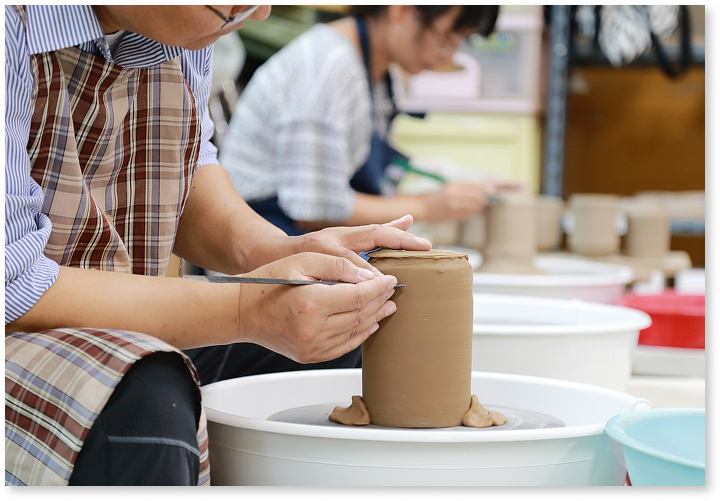
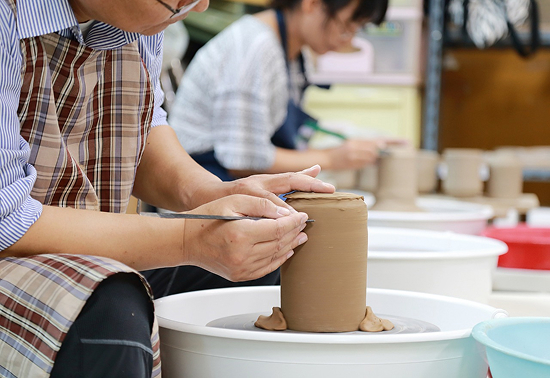
create new page about.html

diff --git a/about.html b/about.html
@@ -1,0 +1,214 @@
+<!doctype html>
+<html lang="en">
+  <head>
+    <meta charset="UTF-8" />
+    <meta name="viewport" content="width=device-width, initial-scale=1.0" />
+    <title>Document</title>
+  </head>
+  <body>    
+<section class="about">
+        <div class="container">
+            <header class="header">
+                <div class="header__menu">
+                    <div class="header__menu-close">
+                        <span></span>
+                        <span></span>
+                    </div>
+                    <nav class="header__nav-menu">
+                        <ul>
+                            <li><a href="#" class="header__link__menu">catalog</a></li>
+                            <li><a href="#" class="header__link__menu">blog</a></li>
+                            <li><a href="#" class="header__link__menu">about</a></li>
+                        </ul>
+                    </nav>
+                </div>
+                <div class="header__top">
+                    <div class="burger">
+                        <span></span>
+                        <span></span>
+                        <span></span>
+                    </div>
+                    <div class="header__menu-logo">
+                        <a href="#" class="header__logo">
+                            <img src="/src/logo/logo.png" alt="logo" />
+                        </a>
+                        <div class="header__icons">
+                            <a href="#" aria-label="search icon">
+                                <span class="icon-search"></span>
+                            </a>
+                            <a href="#" aria-label="Shopping icon">
+                                <span class="icon-shopping-bag"></span>
+                            </a>
+                        </div>
+                    </div>
+                    <nav class="header__nav">
+                        <ul>
+                            <li><a href="#" class="header__link">catalog</a></li>
+                            <li><a href="#" class="header__link">blog</a></li>
+                            <li><a href="#" class="header__link">about</a></li>
+                        </ul>
+                    </nav>
+                </header>
+            </div>
+        </section>
+        <section  class="about__began">
+          <div class="container">
+            <h2 class="title-h2 title-h2-about">where it all began</h2>
+            <div class="wrapper__about__began">
+              <div class="img__about__began">
+                <img src="/src/img/about/crafts.jpg" alt="crafts">
+              </div>
+              <div class="text__about__began">
+                <p>Our small pottery workshop began as a simple passion project, rooted in 
+                  a love for handmade artistry and traditional craftsmanship. What started 
+                  with a single wheel and a few lumps of clay has grown into a cozy creative 
+                  space where ideas take shape and stories are told through every piece. 
+                  Inspired by timeless techniques and the beauty of natural materials, 
+                  we’ve built a place where both beginners and experienced artists can come 
+                  together, share their skills, and celebrate the art of pottery. Each creation 
+                  reflects our journey—shaped by hand, fired with care, and made to be cherished.
+                </p>
+                <p>Over the years, our workshop has become more than just a place to create—it’s 
+                  a community. Friends, families, and curious visitors gather here to learn, 
+                  connect, and experience the joy of working with clay. From intimate 
+                  masterclasses to collaborative projects, we believe in the power of handmade 
+                  art to bring people together and spark creativity in unexpected ways.</p>
+                <p>Every piece that leaves our studio carries a bit of our story, blending 
+                  tradition with personal expression. Whether it’s a simple cup or an intricate 
+                  vase, our ceramics are crafted to be both beautiful and functional, adding warmth
+                  and authenticity to any space.</p>
+              </div>
+            </div>
+          </div>
+        </section>
+
+
+
+ <section class="touch">
+      <div class="container">
+        <h2 class="title-h2">get in touch</h2>
+        <div class="pure-g touch__wrapper">
+          <div class="pure-u-1 pure-u-lg-1-2 pure-u-xl-1-2 pure-u-xxl-2-5">
+            <img class="touch__img" src="/src/img/form/tea.jpg" alt="tea" />
+          </div>
+          <div
+            class="pure-u-1 pure-u-md-3-5 pure-u-lg-10-24 pure-u-xl-1-2 pure-u-xxl-3-5"
+          >
+            <form class="touch__form" action="#">
+              <fieldset class="touch__fieldset">
+                <div class="touch__input-block">
+                  <label class="touch__label" for="name">Name</label>
+                  <input
+                    class="touch__input"
+                    type="text"
+                    id="name"
+                    name="name"
+                    placeholder="Name"
+                    required
+                  />
+                </div>
+                <div class="touch__input-block">
+                  <label class="touch__label" for="email">Email</label>
+                  <input
+                    class="touch__input"
+                    type="email"
+                    id="email"
+                    name="email"
+                    placeholder="Email"
+                    required
+                  />
+                </div>
+              </fieldset>
+              <label class="touch__label" for="question">Your question</label>
+              <textarea
+                class="touch__textarea"
+                name="question"
+                id="question"
+                placeholder="Question"
+                required
+              ></textarea>
+              <label class="touch__label touch__check-block" for="checkbox-touch">
+                <input
+                  required
+                  class="touch__check-box"
+                  type="checkbox"
+                  id="checkbox-touch"
+                />
+                I agree with the <a href="#">terms</a>
+              </label>
+              <button class="btn-send touch__btn" type="submit">
+                send request
+              </button>
+            </form>
+          </div>
+          <img class="touch__decor" src="/src/img/form/vase.png" alt="vase" />
+        </div>
+      </div>
+    </section>
+
+
+
+
+    <footer class="footer">
+    <div class="container">
+      <div class="footer__wrapper">
+        <div class="footer__wrapper__blocks">
+ <div class="footer__form">
+          <h3>newsletter</h3>
+          <p>Keep up to date with news and promotions</p>
+          <form class="footer__form-block" action="#">
+            <input
+              class="footer__input"
+              type="email"
+              name="email"
+              placeholder="Enter your e-mail"
+              required
+            />
+            <label class="touch__label touch__check-block" for="checkbox-footer">
+                <input
+                  required
+                  class="touch__check-box"
+                  type="checkbox"
+                  id="checkbox-footer"
+                />
+                I agree with the <a href="#">terms</a>
+              </label>
+            <button class="btn-send footer__btn" type="submit">
+              submit
+            </button>
+          </form>
+        </div>
+        <div class="footer__links">
+          <div class="footer__links__block">
+             <div class="footer__links__block__1">
+            <h4>discover</h4>
+            <p>About Us</p>
+            <p>Blog</p>
+          </div>
+          <div class="footer__links__block__2">
+            <h4>shopping</h4>
+            <p>Catalog</p>
+          </div>
+          <div class="footer__links__block__3">
+            <h4>information</h4>
+            <p>Terms and Conditions</p>
+          </div>
+        </div> 
+        <div class="footer__links__block__4">
+          <h4>follow us</h4>
+          <div class="footer__social__icons">
+          <a href="#"><img src="/src/icons/facebook.png" alt="Facebook"></a>
+        <a href="#"><img src="/src/icons/instagram.png" alt="Instagram"></a>
+          <a href="#"><img src="/src/icons/pinterest.png" alt="Pinterest"></a>
+        </div>
+      </div>
+    </div>
+        </div>
+    <div class="footer__text"> 
+      <p>© Copyright 2026, Ceramic soul</p>
+    </div>
+      </div>
+    </footer>
+    <script type="module" src="/src/js/main.js"></script>
+  </body>
+</html>

diff --git a/src/sass/blocks/about.scss b/src/sass/blocks/about.scss
@@ -1,0 +1,55 @@
+@use "../base/variables.scss" as *;
+.title-h2-about {
+  margin: 60px 0 58px 0;
+}
+.img__about__began {
+  margin-bottom: 35px;
+  box-shadow: 5px 5px 10px rgba(0, 0, 0, 0.25);
+}
+.text__about__began p {
+  margin-bottom: 15px;
+  font-family: "Barlow";
+  font-style: normal;
+  font-weight: 400;
+  font-size: 16px;
+  line-height: 19px;
+  color: $dark;
+}
+@media screen and (min-width: 1200px) {
+  .wrapper__about__began {
+    min-width: 1140px;
+    display: flex;
+    flex-wrap: wrap;
+    gap: 15px;
+  }
+  .img__about__began {
+    width: calc(48% - 10px);
+    min-width: 550px;
+  }
+  .text__about__began {
+    width: calc(50% - 10px);
+  }
+}
+@media screen and (min-width: 1920px) {
+  .wrapper__about__began {
+    min-width: 1440px;
+    display: flex;
+    flex-wrap: wrap;
+    gap: 20px;
+  }
+  .img__about__began {
+    width: calc(48% - 10px);
+    min-width: 700px;
+    img {
+      min-width: 700px;
+    }
+  }
+  .text__about__began {
+    width: calc(50% - 10px);
+  }
+  .text__about__began p {
+    line-height: 24px;
+    font-size: 20px;
+    margin-bottom: 20px;
+  }
+}

diff --git a/src/sass/blocks/catalog.scss b/src/sass/blocks/catalog.scss
@@ -67,7 +67,6 @@
 
   @media screen and (min-width: 768px) {
     .catalog__content__item {
-      padding: 5px 10px 0 10px;
       position: relative;
       @include angle-decoration;
     }
@@ -77,7 +76,8 @@
       flex-wrap: none;
       column-gap: 38px;
     }
-    &__for__tea {
+    .catalog__for__tea {
+      padding: 10px 5px 60px 10px;
       flex-direction: row;
       flex-wrap: wrap;
       gap: 20px;
@@ -89,8 +89,8 @@
     }
   }
   @media screen and (min-width: 1200px) {
-    &__for__tea {
-      margin: 5px 5px 60px 5px;
+    .catalog__for__tea {
+      padding: 18px 5px 60px 18px;
       flex-direction: row;
       flex-wrap: wrap;
       gap: 20px;
@@ -100,9 +100,10 @@
       }
     }
   }
+
   @media screen and (min-width: 1920px) {
-    &__for__tea {
-      margin: 15px 15px 60px 15px;
+    .catalog__for__tea {
+      padding: 20px 25px 60px 25px;
       flex-direction: row;
       flex-wrap: wrap;
       gap: 20px;

diff --git a/src/sass/style.min.css b/src/sass/style.min.css
@@ -1,1 +1,1 @@
-@use "libs/modern-normalize.min.css";@use "libs/fontello.css";@use "base/variables.scss" as *;@use "base/mixins.scss" as *;@use "base/basic.scss";@use "blocks/header.scss";@use "blocks/footer.scss";@use "blocks/promo.scss";@use "ui/titles.scss" as *;@use "ui/buttons.scss";@use "blocks/activites.scss";@use "blocks/touch.scss";@use "blocks/works.scss";@use "blocks/catalog.scss";@use "blocks/blog.scss"
+@use "libs/modern-normalize.min.css";@use "libs/fontello.css";@use "base/variables.scss" as *;@use "base/mixins.scss" as *;@use "base/basic.scss";@use "blocks/header.scss";@use "blocks/footer.scss";@use "blocks/promo.scss";@use "ui/titles.scss" as *;@use "ui/buttons.scss";@use "blocks/activites.scss";@use "blocks/touch.scss";@use "blocks/works.scss";@use "blocks/catalog.scss";@use "blocks/blog.scss";@use "blocks/about.scss"

diff --git a/src/sass/blocks/about.css b/src/sass/blocks/about.css
@@ -1,0 +1,18 @@
+@use "../base/variables.scss" as *;
+.title-h2-about {
+  margin: 60px 0 58px 0;
+}
+
+.img__about__began {
+  margin-bottom: 35px;
+}
+
+.text__about__began p {
+  margin-bottom: 15px;
+  font-family: "Barlow";
+  font-style: normal;
+  font-weight: 400;
+  font-size: 16px;
+  line-height: 19px;
+  color: #232323;
+}

diff --git a/src/sass/blocks/about.min.css b/src/sass/blocks/about.min.css
@@ -1,0 +1,1 @@
+@use "../base/variables.scss" as *;.title-h2-about{margin:60px 0 58px 0}.img__about__began{margin-bottom:35px}.text__about__began p{margin-bottom:15px;font-family:"Barlow";font-style:normal;font-weight:400;font-size:16px;line-height:19px;color:#232323}

diff --git a/blog.html b/blog.html
@@ -17,7 +17,7 @@
     <meta name="viewport" content="width=device-width, initial-scale=1.0" />
     <title>Document</title>
   </head>
-  <body>    
+<body>    
 <section class="blog">
         <div class="container">
             <header class="header">

diff --git a/src/sass/style.css b/src/sass/style.css
@@ -13,3 +13,4 @@
 @use "blocks/works.scss";
 @use "blocks/catalog.scss";
 @use "blocks/blog.scss";
+@use "blocks/about.scss";

diff --git a/src/sass/style.scss b/src/sass/style.scss
@@ -15,3 +15,4 @@
 @use "blocks/works.scss";
 @use "blocks/catalog.scss";
 @use "blocks/blog.scss";
+@use "blocks/about.scss";
